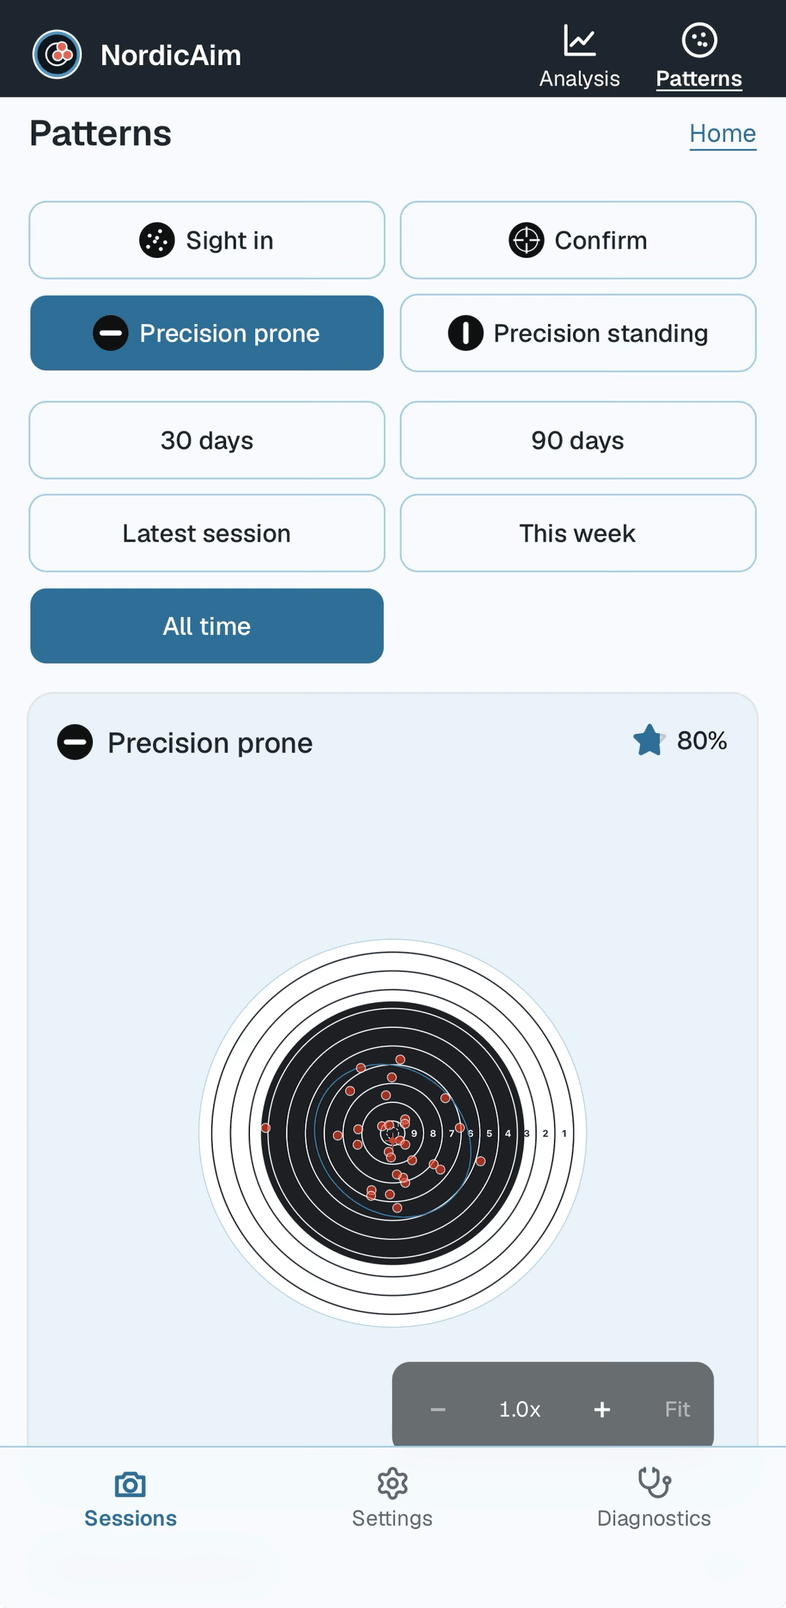
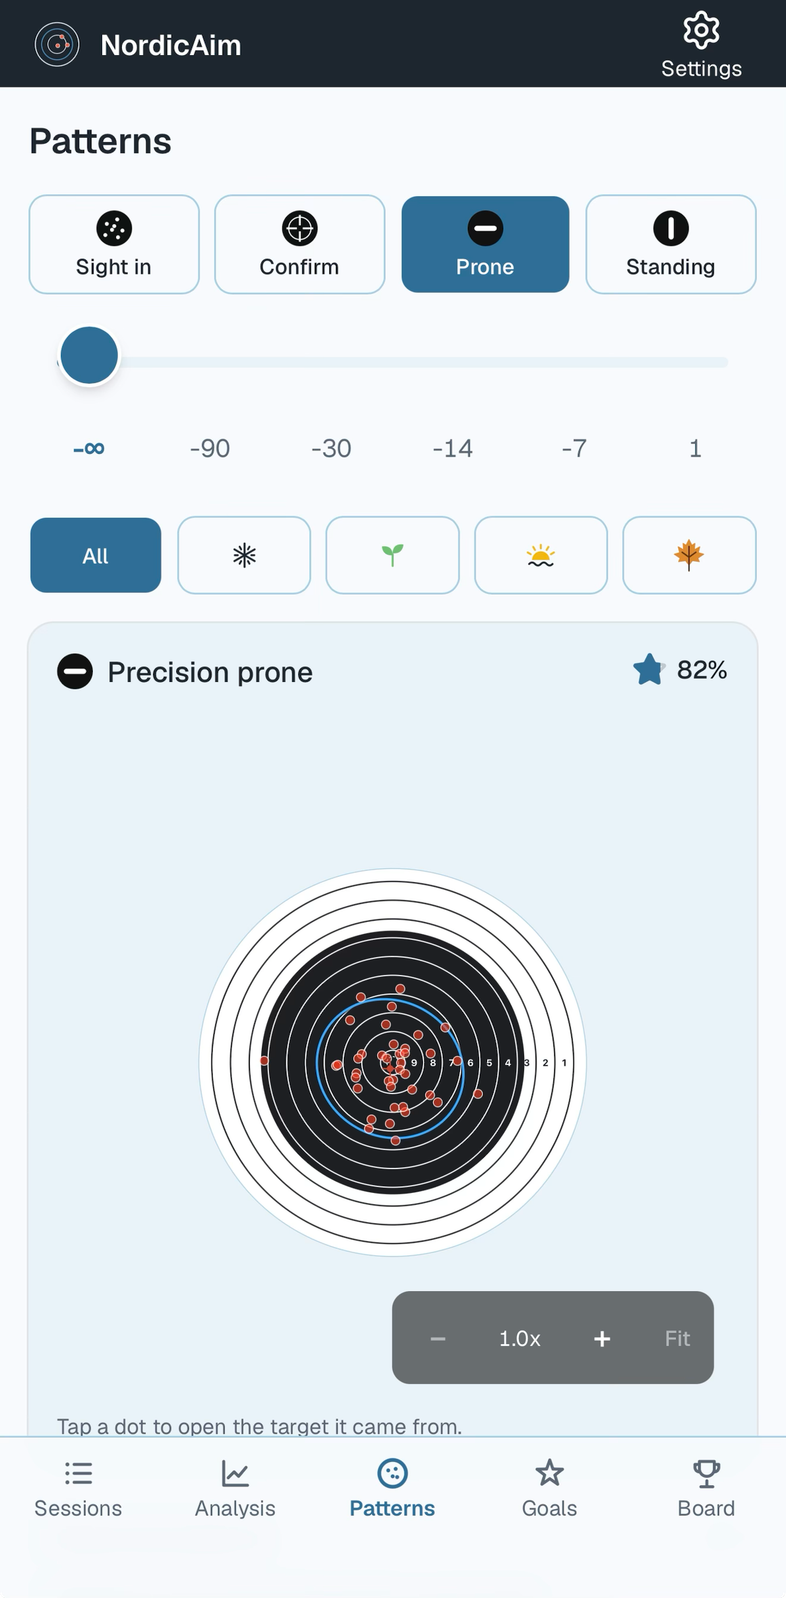
Docs: Patterns screenshot from the owner's iPhone, with the season row
Claude-Session: https://claude.ai/code/session_011nJupxVuQvQUQUo39E3m88

diff --git a/docs/guide/workflow.md b/docs/guide/workflow.md
@@ -102,7 +102,7 @@ Tap **Patterns** at the top of the screen. Choose the kind of target (**Sight in
 Every shot is laid over the printed target. Where they pile up they darken, so you can see whether today's group sits where your usual group does, and whether your misses have a habit. The **Observed patterns** panel gives the group size, mean radius and how far the group sits from centre.
 
 <p align="center">
-  <img src="../assets/screens/patterns.png" width="300" alt="The Patterns screen with every precision prone shot laid over the printed target and the observed patterns below">
+  <img src="../assets/screens/patterns.png" width="300" alt="The Patterns screen on Prone, with the date slider and the season row above every precision prone shot laid over the printed target">
 </p>
 
 Then tap **Analysis** beside it. The same kinds of target and ranges, but one point per session, so you see how your score or hit rate, group size, accuracy (RMS) and mean point of impact move over time. From three sessions, a dashed trend line on the score, group size and accuracy shows the direction and how much it changes per session.

diff --git a/docs/guide/README.md b/docs/guide/README.md
@@ -156,7 +156,7 @@ Tap **Patterns** on the bottom bar.
 Patterns lays every shot you have recorded over the printed target, one view for each kind of target: **Sight in**, **Confirm**, **Precision prone** and **Precision standing**. Dots are translucent, so where they pile up they darken. Choose **Latest session**, **This week**, **30 days**, **90 days** or **All time**.
 
 <p align="center">
-  <img src="../assets/screens/patterns.png" width="300" alt="The Patterns screen with every precision prone shot laid over the printed target and the observed patterns below">
+  <img src="../assets/screens/patterns.png" width="300" alt="The Patterns screen on Prone, with the date slider and the season row above every precision prone shot laid over the printed target">
 </p>
 
 Under the drawing you get the number of shots, targets and sessions, your mean point of impact, the group ellipse, and either the share of shots in each ring (precision) or the share landing in the hit zone (sighting).
